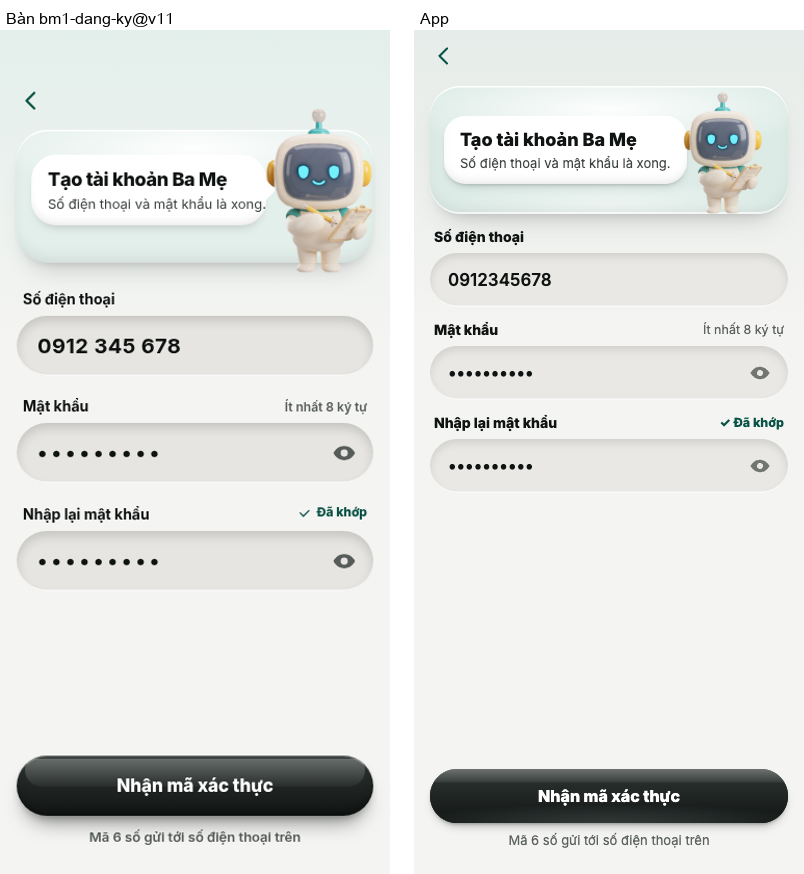
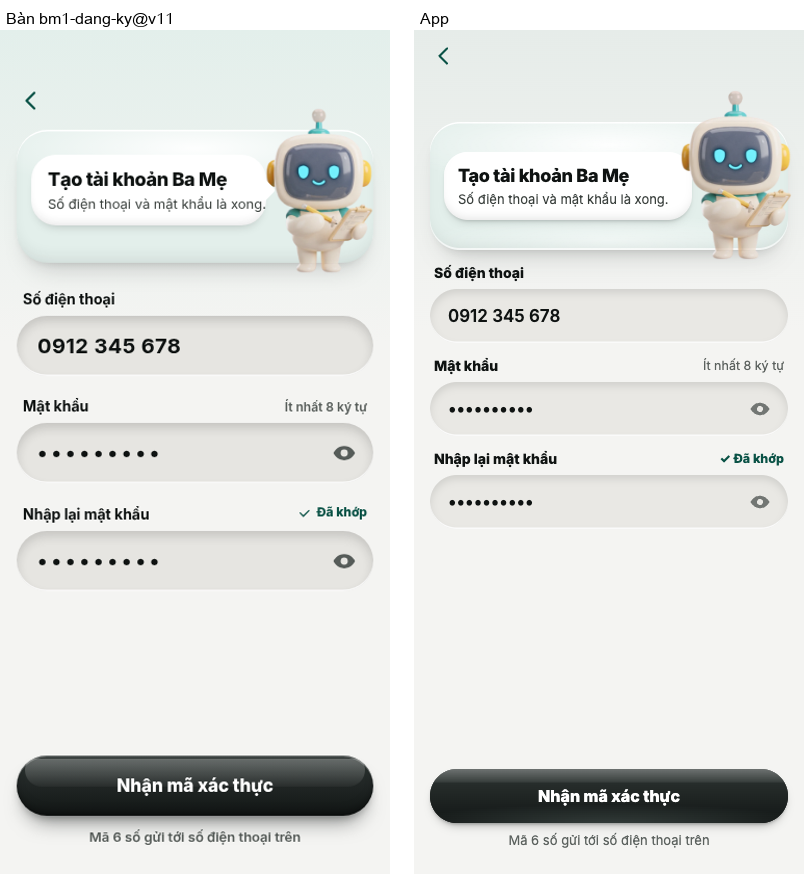
Lần đầu · Đăng ký: Grow to tràn đỉnh thẻ, bong bóng flex, SĐT tách số, ca OTP đang gõ (review #336)
- CanhRob: prop riêng `bongTo` (chỉ màn Đăng ký): thẻ 128, bong bóng flex:1, Grow 170 đứng mép phải tràn khỏi đỉnh thẻ (khung cắt
  phần trong suốt của ảnh). Kiểu cũ trả về như main, bỏ useWindowDimensions và dong={2}.
- them-ahk69dtl: Grow to tràn đỉnh thẻ bằng position absolute, bỏ margin âm (thẻ không còn đè thanh kéo).
- Ô số điện thoại hiển thị «0912 345 678», giá trị gửi vẫn số liền.
- hienSo dùng chung (lib/lan-dau) cho otp, thanh-vien, tai-khoan.
- pha.mjs: dienDangKy() dùng chung; ca «bm-otp (đang gõ)» gõ 4820 như bàn.

Claude-Session: https://claude.ai/code/session_01DSu591D8CbBg6o268DT8cz

Changed region(s): [[0.5286, 0.0927, 0.995, 0.4325], [0.5286, 0.4634, 0.995, 0.587]]

diff --git a/mobile/src/lib/lan-dau.tsx b/mobile/src/lib/lan-dau.tsx
@@ -5,7 +5,7 @@
 import React, { useEffect, useRef, useState, type ReactNode } from "react";
 import { Image } from "expo-image";
 import { ICON_3D, type Ten3D } from "./icon-3d";
-import { Linking, Platform, Pressable, ScrollView, Share, Text, TextInput, useWindowDimensions, View, type TextInputProps } from "react-native";
+import { Linking, Platform, Pressable, ScrollView, Share, Text, TextInput, View, type TextInputProps } from "react-native";
 import { router } from "expo-router";
 import { SvgXml } from "react-native-svg";
 import { BONG, BO_CLAY, KHOI, MEN } from "./clay";
@@ -76,10 +76,22 @@ export const TieuDe = ({ chu, phu, dam, giua, co = 27 }: { chu: string; phu?: st
 
 /** Cảnh đầu màn kiểu thiết kế mới: khối ngọc nhạt, bong bóng trắng (tiêu đề + 1 câu) bên trái, Grow bên phải.
  *  `chuTo`: kiểu «Đăng nhập» (bm-dang-nhap/01) — không bong bóng, tiêu đề 26/800 + câu 14.5 thẳng trên thẻ cao 176, Grow 150 tràn đáy. */
-export function CanhRob({ lv, tieu, loi, ic, cao = 150, chuTo, robTrai }: { lv: LinhVat; tieu: string; loi?: string; ic?: TenIcon; cao?: number; chuTo?: boolean;
+export function CanhRob({ lv, tieu, loi, ic, cao = 150, chuTo, robTrai, bongTo }: { lv: LinhVat; tieu: string; loi?: string; ic?: TenIcon; cao?: number; chuTo?: boolean;
+  /** kiểu bàn bm1-dang-ky v11 `.hero`: thẻ cao 128, bong bóng (tiêu đề 18 + câu 13) chiếm phần còn lại, Grow to ~170 đứng mép phải tràn lên khỏi đỉnh thẻ */ bongTo?: boolean;
   /** Grow bên TRÁI, bong bóng bên phải (thiết kế «Đang chờ máy của con» bm-ghep-lan-dau/02, bm-ghep-may/04) */ robTrai?: boolean }) {
-  // bong bóng có câu phụ (bm1-dang-ky v11): khổ ≥ 375 câu phụ đứng một dòng như bàn; khổ hẹp hơn giữ bề rộng cũ (không đè Grow)
-  const rongMan = useWindowDimensions().width;
+  if (bongTo) return (
+    <View style={{ height: 128, marginTop: 36, borderRadius: 30, backgroundColor: "#e3efeb", flexDirection: "row", alignItems: "center", paddingLeft: 14, paddingRight: 96, ...KHOI.the }}>
+      <LopMen men={MEN.vien} bo={30} />
+      <View style={{ flex: 1, minWidth: 0, backgroundColor: "#fff", borderRadius: 24, paddingVertical: 12, paddingHorizontal: 14, boxShadow: BONG.nho }}>
+        <Text accessibilityRole="header" style={{ fontFamily: F.rat, fontSize: 18, lineHeight: 23, letterSpacing: -0.3, color: M.chu }}>{tieu}</Text>
+        {loi ? <Chu co={13} mau="#3a403d" style={{ marginTop: 3, lineHeight: 18 }}>{loi}</Chu> : null}
+      </View>
+      {/* khung cắt phần trong suốt hai bên ảnh vuông 170 ⇒ chỉ thân Grow (~112) đứng cạnh bong bóng, không tính là đè chữ */}
+      <View pointerEvents="none" style={{ position: "absolute", right: -4, bottom: -10, width: 112, height: 170, overflow: "hidden", alignItems: "center" }}>
+        <View style={{ width: 170, height: 170 }}><Rob ten={lv} co={170} /></View>
+      </View>
+    </View>
+  );
   if (chuTo) return (
     <View style={{ borderRadius: 34, backgroundImage: "linear-gradient(#d6e9e2, #eef4f1)", backgroundColor: "#e2efea", height: 176, overflow: "hidden", ...KHOI.the }}>
       <LopMen men={MEN.vien} bo={34} />
@@ -94,9 +106,9 @@ export function CanhRob({ lv, tieu, loi, ic, cao = 150, chuTo, robTrai }: { lv: 
     <View style={{ borderRadius: BO_CLAY.the, backgroundColor: "#dcebe6", minHeight: cao, padding: 14, flexDirection: "row", alignItems: "center", justifyContent: robTrai ? "flex-end" : undefined, ...KHOI.the }}>
       <LopMen men={MEN.vien} bo={BO_CLAY.the} />
       {ic ? <View style={{ position: "absolute", left: 14, bottom: 12 }}><Icon3D ten={ic} co={44} /></View> : null}
-      <View style={{ maxWidth: robTrai ? "58%" : loi && rongMan >= 375 ? "77%" : "64%", backgroundColor: "#fff", borderRadius: 22, paddingVertical: 12, paddingHorizontal: loi ? 16 : 14, boxShadow: BONG.nho, marginBottom: ic ? 40 : 0 }}>
-        <Chu kieu="rat" co={loi ? 18 : 16}>{tieu}</Chu>
-        {loi ? <Chu co={13} mau={M.chu2} dong={2} style={{ marginTop: 3, lineHeight: 18 }}>{loi}</Chu> : null}
+      <View style={{ maxWidth: robTrai ? "58%" : "64%", backgroundColor: "#fff", borderRadius: 22, paddingVertical: 12, paddingHorizontal: 14, boxShadow: BONG.nho, marginBottom: ic ? 40 : 0 }}>
+        <Chu kieu="rat" co={16}>{tieu}</Chu>
+        {loi ? <Chu co={13.5} mau={M.chu2} style={{ marginTop: 2 }}>{loi}</Chu> : null}
       </View>
       <View pointerEvents="none" style={{ position: "absolute", ...(robTrai ? { left: 4 } : { right: 4 }), bottom: 0, top: 4, width: "36%", alignItems: robTrai ? "flex-start" : "flex-end", justifyContent: "flex-end" }}>
         <Rob ten={lv} co={Math.min(cao - 6, 130)} />
@@ -183,6 +195,8 @@ export const LienKet = ({ chu, bam, gach }: { chu: string; bam: () => void; gach
 // ---------------------------------------------------------------- ghép máy: mã to, chia sẻ, 3 bước
 
 /** «482017» ⇒ «482 017». */
+/** «0912345678» ⇒ «0912 345 678» (số 10 chữ số; dạng khác — email, +84… — giữ nguyên). */
+export const hienSo = (s = "") => (/^\d{10}$/.test(s) ? s.replace(/^(\d{4})(\d{3})(\d{3})$/, "$1 $2 $3") : s);
 export const hienMa = (ma: string) => (ma.length === 6 ? `${ma.slice(0, 3)} ${ma.slice(3)}` : ma);
 /** «https://aiigrow.aiilab.vn/tai?g=…» ⇒ «aiigrow.aiilab.vn/tai» (chữ ngắn trên màn). */
 export const linkNgan = (lienKet: string) => lienKet.replace(/^https?:\/\//, "").replace(/\?.*$/, "");

diff --git a/mobile/src/app/dang-ky.tsx b/mobile/src/app/dang-ky.tsx
@@ -5,7 +5,8 @@ import { router, useLocalSearchParams } from "expo-router";
 import { View } from "react-native";
 import { bm, LoiApi } from "@/lib/api";
 import { nhoDangKy, TEN_MAC_DINH } from "@/lib/dang-ky";
-import { CanhRob, DauMan, LienKet, OLom } from "@/lib/lan-dau";
+import { CanhRob, DauMan, hienSo, LienKet, OLom } from "@/lib/lan-dau";
+import { BONG } from "@/lib/clay";
 import { BangTruot, BaoLoi, Chu, M, Man, Nut, Rob, useLam } from "@/lib/ui";
 
 export default function DangKy() {
@@ -33,15 +34,18 @@ export default function DangKy() {
     <Man dau={<DauMan ve={moi || duocMoi ? "/moi" : "/tao-tai-khoan"} />}
       day={<><BaoLoi loi={loi} /><Nut chu="Nhận mã xác thực" rong dangChay={dangChay} tat={!sdt.trim() || !khop} bam={gui} />
         <Chu co={13} mau={M.chu3} style={{ textAlign: "center" }}>Mã 6 số gửi tới số điện thoại trên</Chu></>}>
-      <CanhRob lv="so-tay" tieu={tieu} loi="Số điện thoại và mật khẩu là xong." cao={128} />
-      <OLom nhan="Số điện thoại" value={sdt} onChangeText={setSdt} keyboardType="phone-pad" autoComplete="tel" textContentType="telephoneNumber" placeholder="0912 345 678" />
+      <CanhRob lv="so-tay" tieu={tieu} loi="Số điện thoại và mật khẩu là xong." bongTo />
+      <OLom nhan="Số điện thoại" value={hienSo(sdt)} onChangeText={(v) => setSdt(v.replace(/[^\d+]/g, ""))} keyboardType="phone-pad" autoComplete="tel" textContentType="telephoneNumber" placeholder="0912 345 678" />
       <OLom nhan="Mật khẩu" ghi="Ít nhất 8 ký tự" matKhau value={mk} onChangeText={setMk} autoComplete="new-password" textContentType="newPassword" />
       <OLom nhan="Nhập lại mật khẩu" ghi={mk2 ? (khop ? "Đã khớp" : "Chưa khớp") : undefined} ghiOk={khop} matKhau value={mk2} onChangeText={setMk2} autoComplete="new-password" onSubmitEditing={() => khop && sdt && gui()} />
       <BangTruot mo={daCo} dong={() => setDaCo(false)} tieu="">
-        <View style={{ alignItems: "center", gap: 10, marginTop: -30 }}>
-          <View style={{ flexDirection: "row", alignItems: "center", gap: 10, alignSelf: "stretch", borderRadius: 26, backgroundColor: "#dcebe6", padding: 14 }}>
-            <View style={{ flex: 1, backgroundColor: "#fff", borderRadius: 18, paddingVertical: 10, paddingHorizontal: 14 }}><Chu kieu="rat" co={20} so>{an}</Chu></View>
-            <View style={{ marginVertical: -22, marginRight: -6 }}><Rob ten="chi" co={132} /></View>
+        <View style={{ alignItems: "center", gap: 10 }}>
+          {/* bàn them-ahk69dtl v7: thẻ ngọc nhạt, viên số bên trái, Grow to đứng mép phải tràn lên khỏi đỉnh thẻ (thanh kéo vẫn trống) */}
+          <View style={{ flexDirection: "row", alignItems: "center", alignSelf: "stretch", height: 116, marginTop: 34, borderRadius: 26, backgroundColor: "#dcebe6", paddingLeft: 16, paddingRight: 150 }}>
+            <View style={{ flex: 1, minWidth: 0, backgroundColor: "#fff", borderRadius: 18, paddingVertical: 10, paddingHorizontal: 14, boxShadow: BONG.nho }}><Chu kieu="rat" co={20} so dong={1}>{an}</Chu></View>
+            <View pointerEvents="none" style={{ position: "absolute", right: 4, bottom: -4, width: 124, height: 156, overflow: "hidden", alignItems: "center" }}>
+              <View style={{ width: 156, height: 156 }}><Rob ten="chi" co={156} /></View>
+            </View>
           </View>
           <Chu kieu="rat" co={21} style={{ textAlign: "center" }}>Số này đã có tài khoản</Chu>
           <Chu co={14.5} mau={M.chu2} style={{ textAlign: "center" }}>Đăng nhập để vào lại nhà mình nhé.</Chu>

diff --git a/mobile/src/app/tai-khoan.tsx b/mobile/src/app/tai-khoan.tsx
@@ -2,6 +2,7 @@
 // ảnh chữ + «Bạn cùng trông N con», «Tên hiển thị · Lưu tên» (POST toi/ten), «Đăng nhập»: SĐT / email · «Đổi mật khẩu» (/doi-mat-khau;
 // tài khoản Google / Facebook chưa có mật khẩu ⇒ /dat-mat-khau), «Rời đi»: Đăng xuất · Rời nhà (không phải người tạo nhà — POST thanh-vien/roi-nha) ·
 // Xoá tài khoản (chuyển từ tab Cả nhà — Apple 5.1.1(v), server/lib/xoa-tai-khoan.ts: hỏi máy chủ trước, bị chặn thì hiện hướng dẫn, rồi nhập mật khẩu).
+import { hienSo } from "@/lib/lan-dau";
 import { useState } from "react";
 import { router } from "expo-router";
 import { TextInput, View } from "react-native";
@@ -105,7 +106,7 @@ export default function TaiKhoan() {
 
       <MucTieu chu="Đăng nhập" />
       <Nhom>
-        <Dong dau tieu={email ? "Email" : dd ? "Số điện thoại" : "Đăng nhập bằng"} phu={dd ? `${dd.replace(/^(\d{4})(\d{3})(\d{3})$/, "$1 $2 $3")} · dùng để đăng nhập` : "Google / Facebook"}
+        <Dong dau tieu={email ? "Email" : dd ? "Số điện thoại" : "Đăng nhập bằng"} phu={dd ? `${hienSo(dd)} · dùng để đăng nhập` : "Google / Facebook"}
           trai={<OIcon ic={email ? "tin" : "dt"} />} />
         <Dong tieu={khongMk ? "Đặt mật khẩu" : "Đổi mật khẩu"} trai={<OIcon ic="khoa" />} bam={() => router.push(khongMk ? "/dat-mat-khau" : "/doi-mat-khau")} />
       </Nhom>
@@ -155,7 +156,7 @@ export default function TaiKhoan() {
                   <TickDong trang="x" chu="Mất tin nhắn và thông báo cũ" />
                 </>
               )}
-              {dd && !email ? <TickDong trang="sau" chu={`Số ${dd.replace(/^(\d{4})(\d{3})(\d{3})$/, "$1 $2 $3")} đăng ký lại được`} /> : null}
+              {dd && !email ? <TickDong trang="sau" chu={`Số ${hienSo(dd)} đăng ký lại được`} /> : null}
             </View>
             {/* tài khoản vào bằng Google / Facebook chưa có mật khẩu ⇒ đặt mật khẩu trước (xác minh lại bằng Google / Facebook — app/dat-mat-khau.tsx) */}
             {khongMk ? <Nut chu="Đặt mật khẩu để xác nhận" loai="vien" rong bam={() => { dong(); router.push("/dat-mat-khau"); }} /> : <>

diff --git a/mobile/src/app/thanh-vien.tsx b/mobile/src/app/thanh-vien.tsx
@@ -3,6 +3,7 @@
 // «Mời <tên> rời nhà» + dòng giải thích. 2 quyền (S2): Ba Mẹ đổi được quyền người khác (trừ người tạo nhà, trừ chính mình).
 // Dòng của chính mình ⇒ «Tài khoản của bạn» (/tai-khoan). «7 ngày qua · Cho vay N lần · S sao» (15/11 #265): GET nhat-ky?ca-nha=1 › choVay.theoNguoi (theo tên).
 // Không có `id` (thông báo cũ trỏ /thanh-vien) ⇒ về tab Cả nhà — danh sách người lớn + lời mời nằm ở đó.
+import { hienSo } from "@/lib/lan-dau";
 import { useState } from "react";
 import { View } from "react-native";
 import { Redirect, useLocalSearchParams } from "expo-router";
@@ -71,7 +72,7 @@ export default function ThanhVien() {
       </View>
       <MucTieu chu={`${x.ten} trong nhà`} />
       <Nhom>
-        <Dong dau tieu={fb ? "Đăng nhập bằng" : email ? "Email" : "Số điện thoại"} phu={dd ? dd.replace(/^(\d{4})(\d{3})(\d{3})$/, "$1 $2 $3") : "Chưa có"} trai={<OIcon ic={email || fb ? "tin" : "dt"} />} />
+        <Dong dau tieu={fb ? "Đăng nhập bằng" : email ? "Email" : "Số điện thoại"} phu={dd ? hienSo(dd) : "Chưa có"} trai={<OIcon ic={email || fb ? "tin" : "dt"} />} />
         <Dong tieu="Quyền" phu={TEN_QUYEN[x.quyen]} trai={<OIcon ic={IC_QUYEN[x.quyen]} />} bam={doiDuoc ? () => setMo("quyen") : undefined} />
         <Dong tieu="Cùng trông" phu={soCon ? (soCon > 1 ? `Cả ${soCon} con` : d.con[0].ten) : "Chưa có con nào"} trai={<OIcon ic="nguoi" />}
           phai={soCon ? <ChuCaiCon ds={d.con.slice(0, 4)} co={24} /> : undefined} />

diff --git a/mobile/src/app/otp.tsx b/mobile/src/app/otp.tsx
@@ -8,11 +8,8 @@ import { router } from "expo-router";
 import { bm } from "@/lib/api";
 import { layDangKy, nhoDangKy, xoaDangKy } from "@/lib/dang-ky";
 import { usePhien } from "@/lib/phien";
-import { DauMan, demNguoc, TieuDe } from "@/lib/lan-dau";
+import { DauMan, demNguoc, hienSo, TieuDe } from "@/lib/lan-dau";
 import { Bao, BaoLoi, BieuTron, Chu, Icon3D, M, Ma6, Man, Nut, useLam } from "@/lib/ui";
-
-/** «0912345678» ⇒ «0912 345 678» như bàn bm1-otp v7 (số 10 chữ số; dạng khác — email, +84… — giữ nguyên). */
-const hienSo = (s = "") => (/^\d{10}$/.test(s) ? s.replace(/^(\d{4})(\d{3})(\d{3})$/, "$1 $2 $3") : s);
 
 export default function Otp() {
   const [dk, setDk] = useState(layDangKy);       // giữ bản chụp: xoaDangKy() lúc vào xong không được kéo màn về /dang-ky
